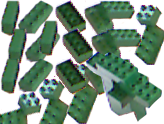
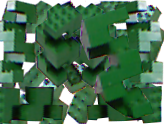
Histogram-based color acceptance now working

diff --git a/WindowsGame1/WindowsGame1/Game1.cs b/WindowsGame1/WindowsGame1/Game1.cs
@@ -55,8 +55,8 @@ namespace KADA
 
 
         Effect effect;
-        private Vector3 CameraPosition = new Vector3(600, -400,-1200);
-        private Vector3 CameraLookAt = new Vector3(400, -300, -1500);
+        private Vector3 CameraPosition = new Vector3(0, -200,0);
+        private Vector3 CameraLookAt = new Vector3(0, -130, -370);
         private Vector3 CameraUp;
          
         private Matrix World;
@@ -197,11 +197,11 @@ namespace KADA
             graphics.IsFullScreen = false;
             graphics.PreferredBackBufferWidth = 640;
             graphics.PreferredBackBufferHeight = 480;
-            Vector3 cameraDiff, unitY;
-            unitY = -Vector3.UnitY;
+            Vector3 cameraDiff, unitX;
+            unitX = -Vector3.UnitX;
             cameraDiff = (CameraLookAt - CameraPosition);
 
-            Vector3.Cross(ref cameraDiff, ref unitY, out CameraUp);
+            Vector3.Cross(ref cameraDiff, ref unitX, out CameraUp);
             CameraUp.Normalize();
             graphics.ApplyChanges();
 
@@ -484,7 +484,8 @@ namespace KADA
         protected override void Draw(GameTime gameTime)
         {
             GraphicsDevice.Clear(Microsoft.Xna.Framework.Color.CornflowerBlue);
-
+            
+            totalFrames++;
             effect.CurrentTechnique = effect.Techniques["Instancing"];
             effect.Parameters["WVP"].SetValue(View * Projection);
 
@@ -497,16 +498,7 @@ namespace KADA
 
             GraphicsDevice.SetVertexBuffers(bindings);
 
-            GraphicsDevice.DrawInstancedPrimitives(PrimitiveType.TriangleList, 0, 0, 24, 0, 12, count);
-
-            /*spriteBatch.Begin();
-            spriteBatch.DrawString(spriteFont, string.Format("FPS={0}", fps), 
-                new Vector2(10.0f, 20.0f),Microsoft.Xna.Framework.Color.Green);
-            spriteBatch.End();
-            totalFrames++;*/
-
-
-
+            GraphicsDevice.DrawInstancedPrimitives(PrimitiveType.TriangleList, 0, 0, 24, 0, 12, count); 
 
             base.Draw(gameTime);
 

diff --git a/KADA/ImageProcessor.cs b/KADA/ImageProcessor.cs
@@ -42,20 +42,20 @@ namespace KADA
             Histograms = new List<Histogram>();
 
             Bitmap red = (Bitmap)Image.FromFile("../../ressources/histogram/Red_cleaned_filled.png", true);
-            Histogram r = new Histogram(red, 100, 8);
-            //Histograms.Add(r);
+            Histogram r = new Histogram(red, 20, 16);
+            Histograms.Add(r);
 
             Bitmap green = (Bitmap)Image.FromFile("../../ressources/histogram/Green_cleaned_filled.png", true);
-            Histogram g = new Histogram(green, 20, 16);
-            //Histograms.Add(g);
+            Histogram g = new Histogram(green, 15, 16);
+            Histograms.Add(g);
 
             Bitmap blue = (Bitmap)Image.FromFile("../../ressources/histogram/Blue_cleaned_filled.png", true);
             Histogram b = new Histogram(blue, 15, 16);
             Histograms.Add(b);
 
             Bitmap yellow = (Bitmap)Image.FromFile("../../ressources/histogram/Yellow_cleaned_filled.png", true);
-            Histogram ye = new Histogram(yellow, 150, 8);
-            //Histograms.Add(ye);
+            Histogram ye = new Histogram(yellow, 18, 16);
+            Histograms.Add(ye);
 
         }
 
